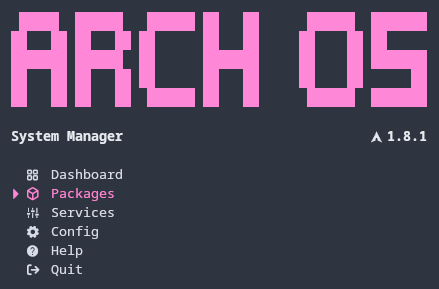
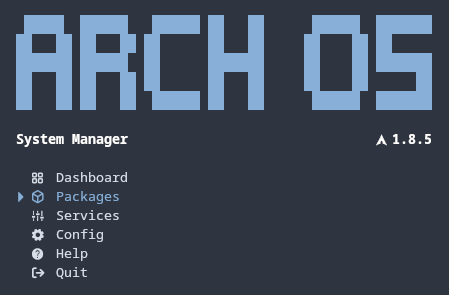
1.8.4
* add zoxide to bash
* new color
* docs

diff --git a/docs/README.md b/docs/README.md
@@ -15,7 +15,7 @@
 
 </b></p>
 
-<p><img src="./screenshots/installer_start.png"></p>
+<p><img src="./screenshots/installer.png"></p>
 
 <p><b>
 
@@ -123,14 +123,6 @@ curl -Ls bit.ly/arch-os | bash
 
 **[➜ See Advanced Installation](DOCS.md#advanced-installation)**
 
-<details>
-
-<summary style="font-weight: bold;" id="animations">Animated Installation Demo</summary>
-
-![Animated Arch OS Installation](./animation.gif)
-
-</details>
-
 ## System Maintenance
 
 <p><img src="./screenshots/manager_menu.png"></p>
@@ -149,13 +141,13 @@ To streamline this process, you can use the preinstalled **[➜ Arch OS System M
 <summary><h2 style="display: inline;" id="screenshots">Screenshots</h2></summary>
 
 <div align="center">
-  <p><div><img src="./screenshots/desktop_demo.jpg"></div><sub><i>Arch OS Desktop Demo</i></sub></p>
-  <p><div><img src="./screenshots/bootsplash.png"></div><sub><i>Arch OS Bootsplash</i></sub></p>
-  <p><div><img src="./screenshots/starship.png"></div><sub><i>Arch OS Starship Promt Demo</i></sub></p>
-  <p><div><img src="./screenshots/fastfetch.png"></div><sub><i>Arch OS Shell Enhancement</i></sub></p>
-  <p><div><img src="./screenshots/vim.png"></div><sub><i>SpaceVim Demo</i></sub></p>
-  <p><div><img src="./screenshots/desktop_apps.png"></div><sub><i>Arch OS Desktop Core Apps </i></sub></p>
-  <p><div><img src="./screenshots/manager_upgrade.png"></div><sub><i>Arch OS Manager - System Upgrade Demo</i></sub></p>
+  <p><div><img src="./screenshots/desktop_overview.jpg"></div><sub><i>Desktop Demo</i></sub></p>
+  <p><div><img src="./screenshots/bootsplash.png"></div><sub><i>Bootsplash Demo</i></sub></p>
+  <p><div><img src="./screenshots/starship.png"></div><sub><i>Starship Demo</i></sub></p>
+  <p><div><img src="./screenshots/fastfetch.png"></div><sub><i>Fetch Demo</i></sub></p>
+  <p><div><img src="./screenshots/spacevim.png"></div><sub><i>SpaceVim Demo</i></sub></p>
+  <p><div><img src="./screenshots/desktop_apps.png"></div><sub><i>Desktop Core Apps Demo</i></sub></p>
+  <p><div><img src="./screenshots/manager_dashboard.png"></div><sub><i>System Manager Demo</i></sub></p>
 </div>
 
 </details>

diff --git a/docs/DOCS.md b/docs/DOCS.md
@@ -16,7 +16,7 @@
 
 ## Recommendation
 
-<p><img src="screenshots/desktop_demo.jpg"></p>
+<p><img src="screenshots/desktop_overview.jpg"></p>
 
 For a robust & stable Arch OS experience, install as few additional packages from the official [Arch Repository](https://archlinux.org/packages) or [AUR](https://aur.archlinux.org) as possible. Instead, use [Flatpak](https://flathub.org) or [GNOME Software](https://apps.gnome.org). Furthermore change system files only if absolutely necessary and perform regular package upgrades.
 
